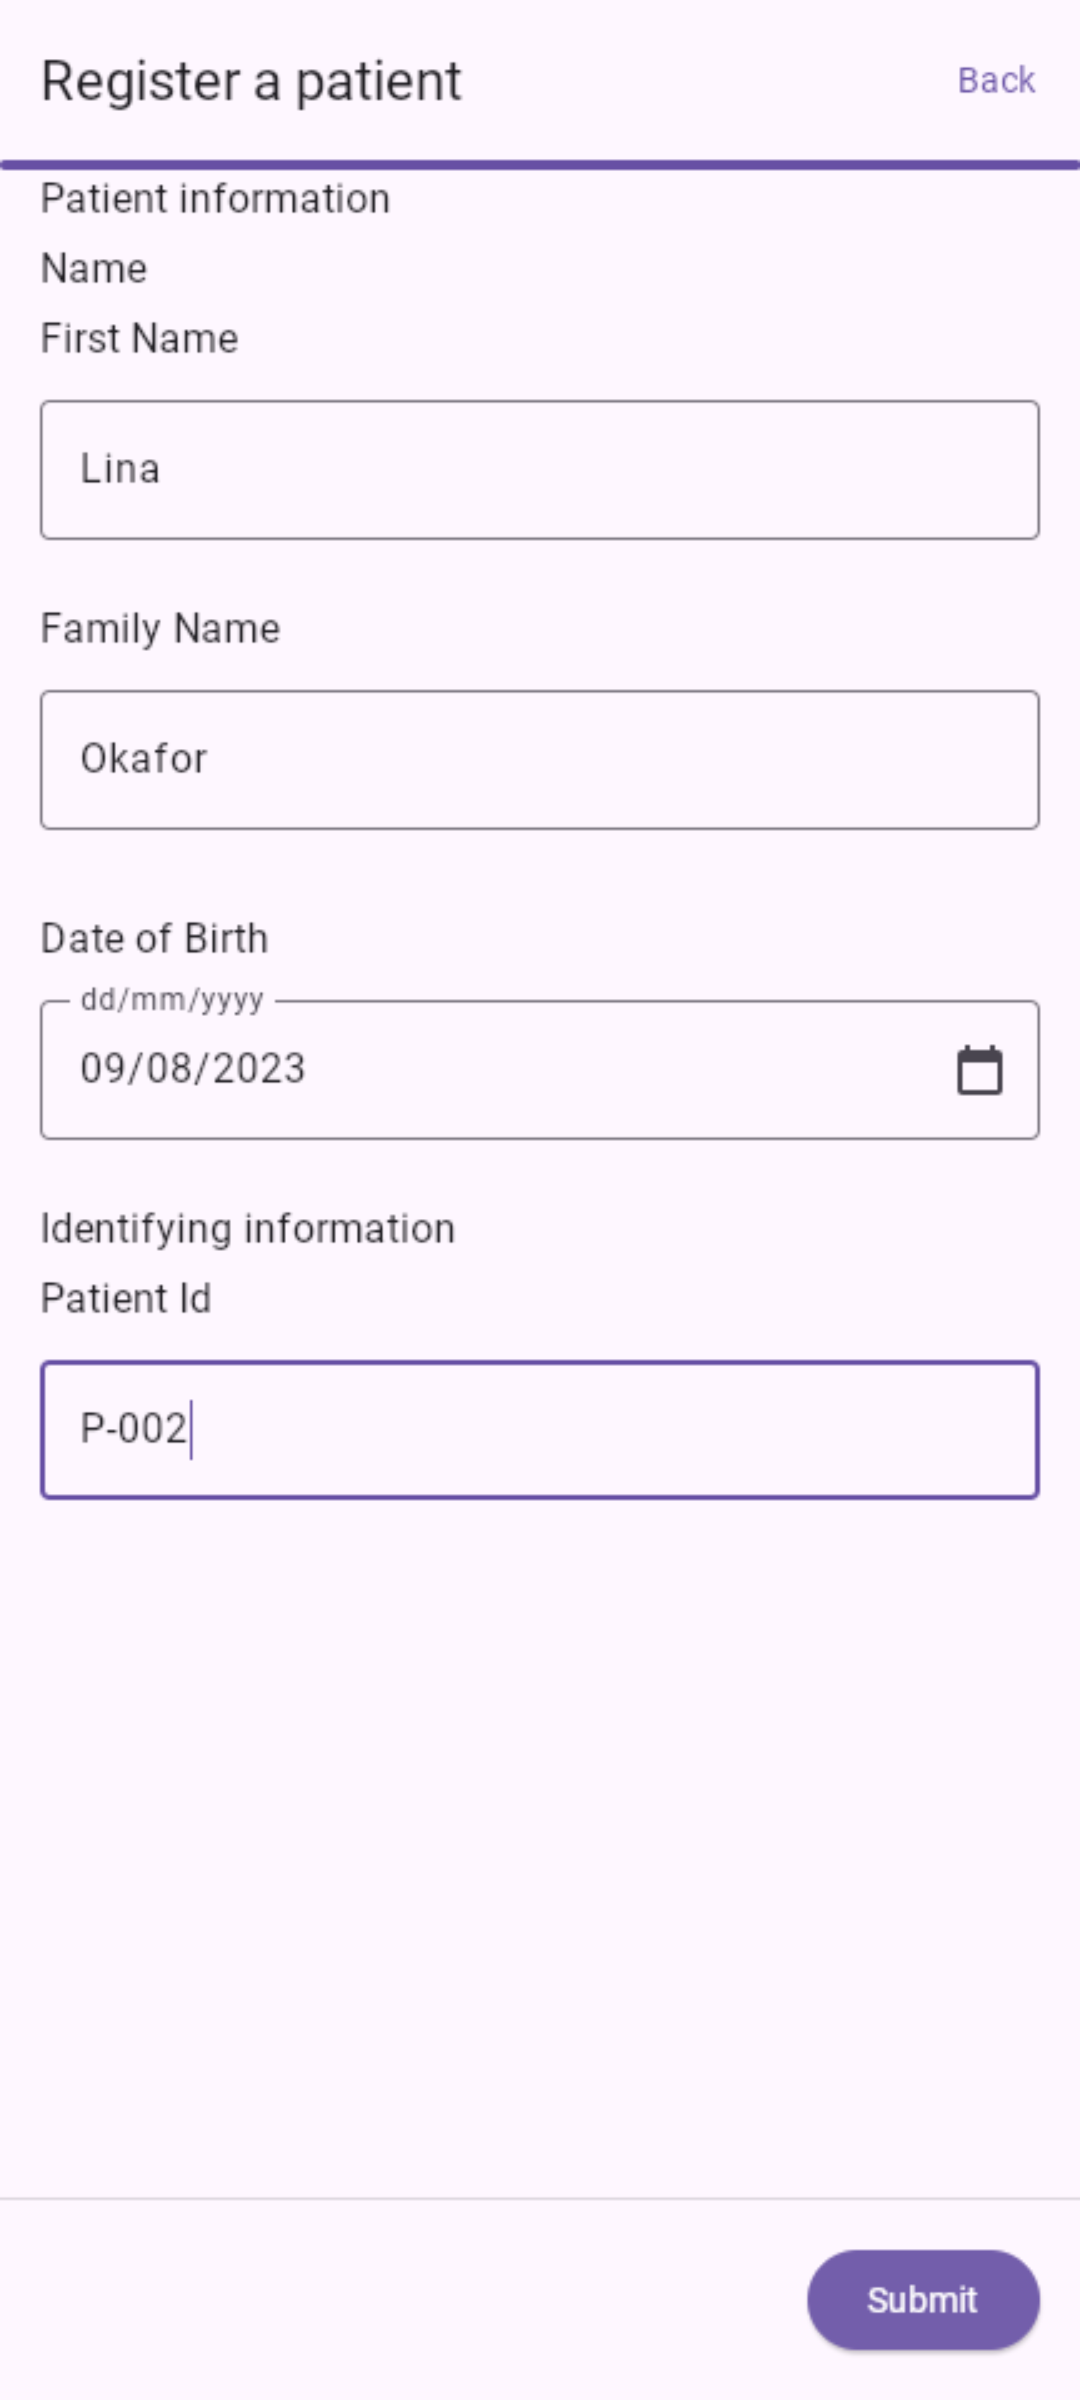
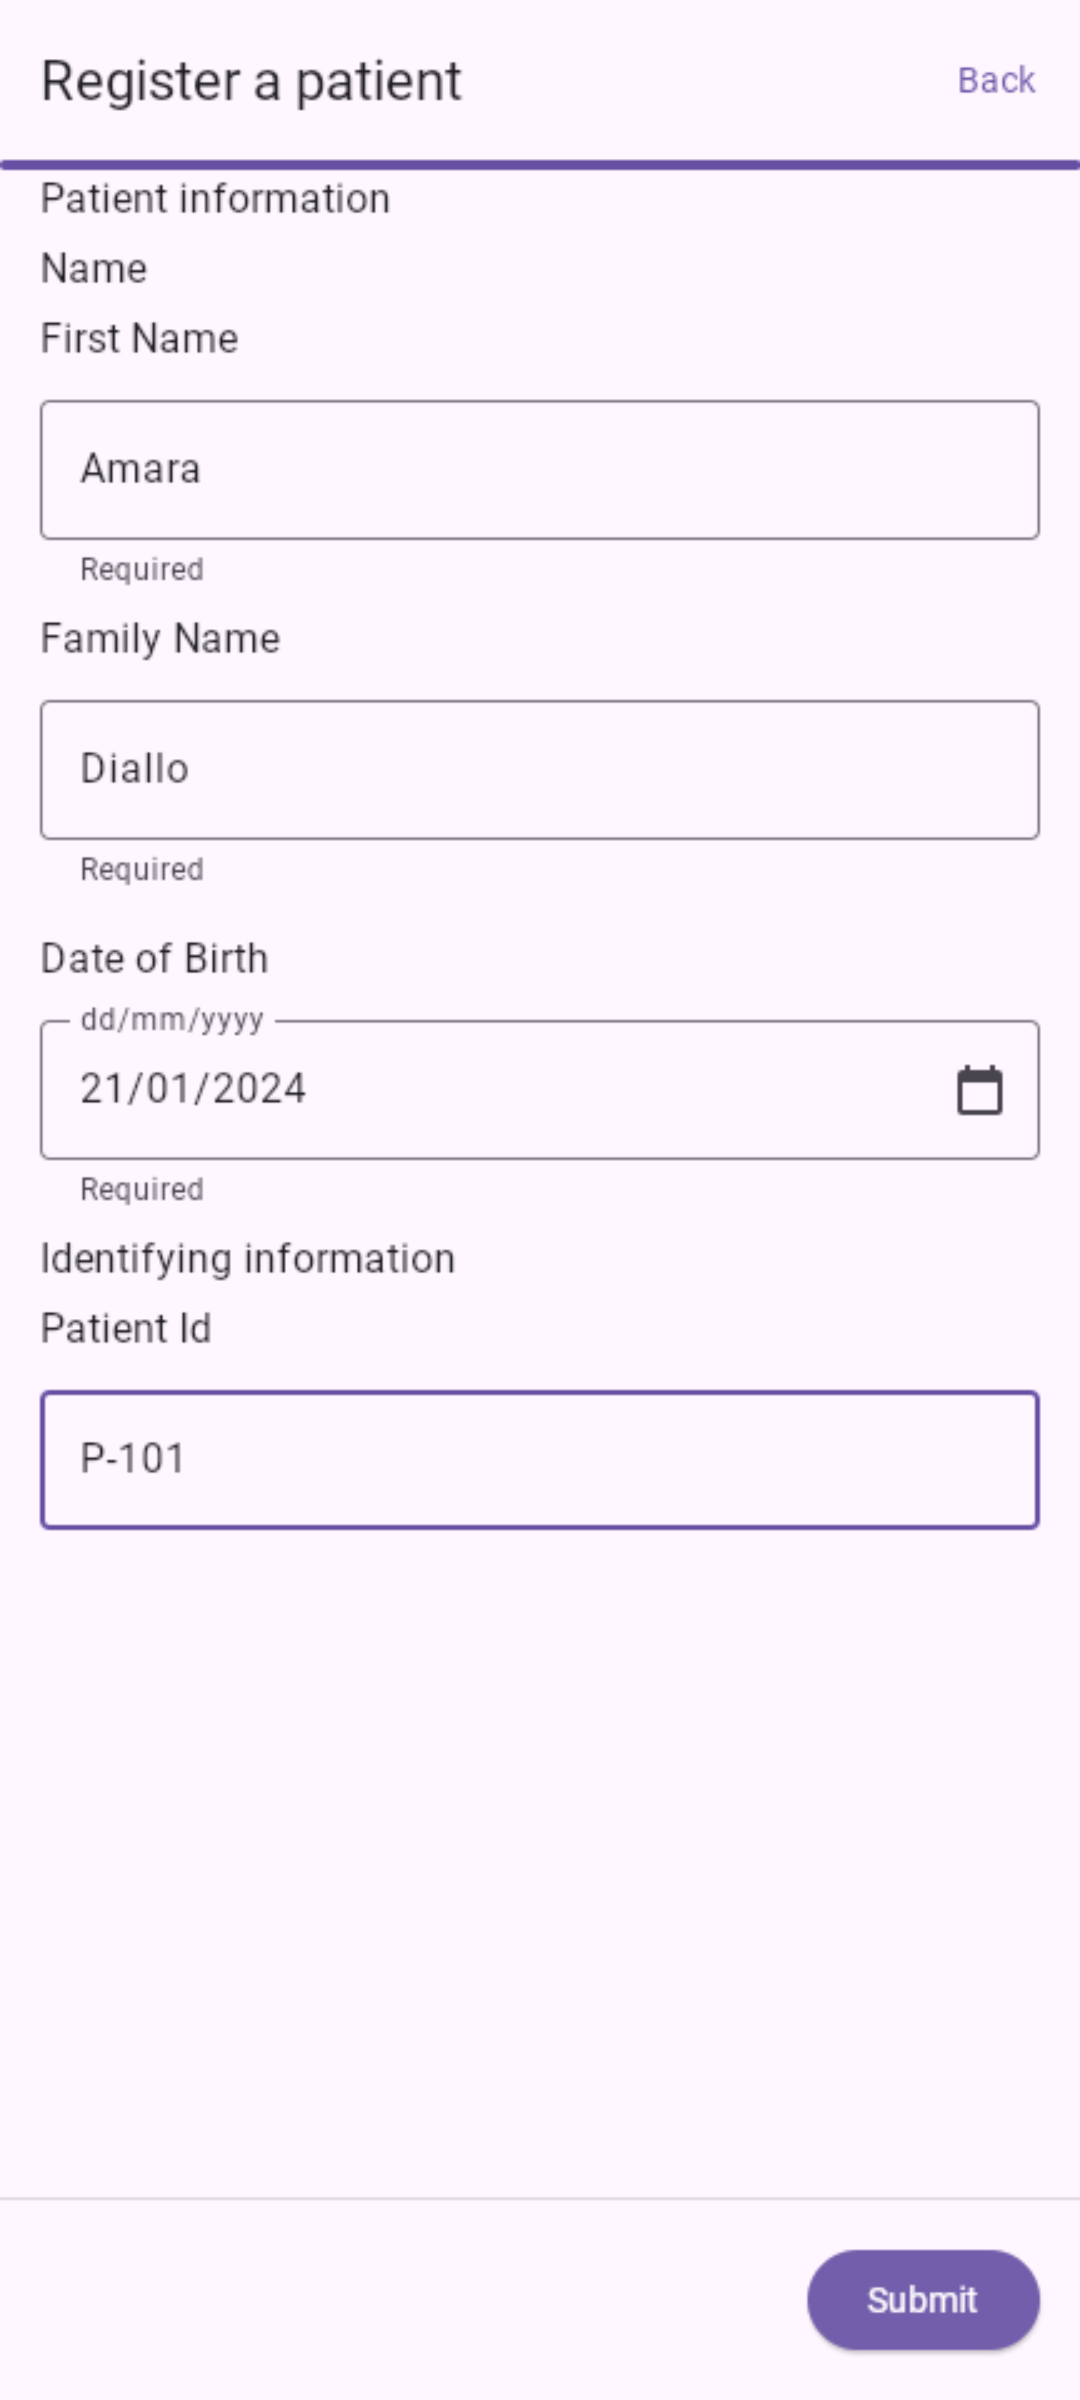
Require name and birth date in the codelab form and show local updates right away

Changed region(s): [[0.0306, 0.1875, 0.9778, 0.6562]]

diff --git a/codelabs/shared/src/commonMain/kotlin/dev/ohs/fhir/codelab/PatientListScreen.kt b/codelabs/shared/src/commonMain/kotlin/dev/ohs/fhir/codelab/PatientListScreen.kt
@@ -128,7 +128,7 @@ private fun PatientItem(patient: Patient, tasks: List<Task>) {
     )
     if (tasks.isNotEmpty()) {
       Text(
-        "Tasks: " + tasks.mapNotNull { it.code?.text?.value }.joinToString(", "),
+        "Tasks: " + tasks.mapNotNull { it.code?.text?.value }.sorted().joinToString(", "),
         style = MaterialTheme.typography.bodyMedium,
         color = MaterialTheme.colorScheme.primary,
       )

diff --git a/codelabs/README.md b/codelabs/README.md
@@ -88,7 +88,9 @@ result with a `total` count of 3.
 The test data is in the `data` folder. The patients are in `data/patients.json`. To reset the server to them, for example to run the
 update step again, run `docker compose down` and then `docker compose up -d`. The app keeps its own
 copy of the patients, so tap **Sync** in the app after a reset, before you tap **Update** again.
-When you're done with the codelab, stop the server with `docker compose down`.
+The server keeps its data in memory, so it starts empty if it restarts, for example after
+`docker compose restart` or a restart of Docker. Run `docker compose up -d` again to load the test
+data. When you're done with the codelab, stop the server with `docker compose down`.
 
 ## 3. Set up the project
 
@@ -187,12 +189,12 @@ step of the codelab. Run the Gradle commands in the `codelabs` folder:
 | Platform      | Command or action                                                                  |
 |:--------------|:-----------------------------------------------------------------------------------|
 | Desktop (JVM) | `./gradlew :shared:run`                                                            |
-| Web (Wasm)    | `./gradlew :shared:wasmJsBrowserDevelopmentRun`, then open `http://localhost:8081` |
+| Web (Wasm)    | `./gradlew :shared:wasmJsBrowserDevelopmentRun`, which opens `http://localhost:8081` |
 | iOS           | Open `iosApp/iosApp.xcodeproj` in Xcode, select a simulator, and click **Run**.    |
 
 The Web dev server doesn't rebuild when you change the code. To see a change, stop it with Ctrl+C
-and run the command again. If port 8081 is already in use on your computer, change the port in
-`shared/webpack.config.d/dev-server-port.js`.
+and run the command again. If another app already uses port 8081 on your computer, the browser may
+show that app instead. Change the port in `shared/webpack.config.d/dev-server-port.js`.
 
 On iOS, Xcode builds the `shared` framework with Gradle. To run on a real device, see
 [`iosApp/README.md`](iosApp/README.md).
@@ -469,12 +471,14 @@ scope.launch {
   patientsFromWakefield.forEach { fhirEngine.update(it.withCity("Taunton")) }
   patientsFromTaunton.forEach { fhirEngine.update(it.withCity("Wakefield")) }
 
+  refreshPatients()
   triggerOneTimeSync()
 }
 ```
 
-After modifying the data locally, the app triggers a one-time sync to upload the changes to the
-FHIR server.
+After modifying the data locally, the app shows the change right away with `refreshPatients()`,
+even without a connection. Then it triggers a one-time sync to upload the changes to the FHIR
+server.
 
 The code you added to `PatientListViewModel` should now look like this:
 
@@ -517,6 +521,7 @@ fun triggerUpdate() {
     patientsFromWakefield.forEach { fhirEngine.update(it.withCity("Taunton")) }
     patientsFromTaunton.forEach { fhirEngine.update(it.withCity("Wakefield")) }
 
+    refreshPatients()
     triggerOneTimeSync()
   }
 }
@@ -591,7 +596,8 @@ Open `RegistrationScreen.kt`. Find the
 questionnaireJson?.let { questionnaireJson ->
   Questionnaire(
     questionnaireJson = questionnaireJson,
-    config = QuestionnaireConfig(showCancelButton = false),
+    config =
+      QuestionnaireConfig(showCancelButton = false, showSubmitAnywayWhenValidationFails = false),
     onSubmit = { getQuestionnaireResponse ->
       scope.launch {
         viewModel.registerPatient(questionnaireJson, getQuestionnaireResponse())
@@ -605,7 +611,9 @@ questionnaireJson?.let { questionnaireJson ->
 
 The `Questionnaire` composable shows the form with a **Submit** button. When you tap **Submit**,
 `getQuestionnaireResponse()` checks the answers and returns them as a FHIR QuestionnaireResponse.
-If an answer isn't valid, the library shows a dialog and the form stays open. Otherwise the app
+The name and date of birth are required. If one is missing or isn't valid, the library lists it
+in a dialog and the form stays open. `showSubmitAnywayWhenValidationFails = false` removes the
+dialog's option to submit anyway. Otherwise the app
 passes the response to `registerPatient()` in the view model and goes back to the patient list.
 
 Run the app and tap **Register**. Fill in the form and tap **Submit**. The app goes back to the
@@ -794,7 +802,8 @@ fhirEngine.create(*tasks.toTypedArray())
 *   `fhirEngine.create()` saves the Tasks in the local database.
 
 Run the app and tap **Sync**, so that the PlanDefinition is on the device. Then register a child
-born less than 5 years ago, and an adult. Each new patient shows its Tasks in the list. The child
+born less than 5 years ago, and an adult. The date field follows the date format of your device or
+browser, such as dd/mm/yyyy or mm/dd/yyyy. Each new patient shows its Tasks in the list. The child
 gets First visit and Child health check, and the adult gets only First visit.
 
 <img src="images/image11.png" alt="Patient list with proposed tasks" width="400">
@@ -834,5 +843,6 @@ FHIR Data Capture and Kotlin FHIR Workflow:
     [Kotlin FHIR Workflow](https://github.com/ohs-foundation/kotlin-fhir-workflow) library
 *   Add periodic sync. See [`engine-app`](https://github.com/ohs-foundation/kotlin-fhir-engine/tree/main/engine-app)
     for an example on every platform.
-*   Explore the Search API. The [conformance](https://github.com/ohs-foundation/kotlin-fhir-engine/blob/main/docs/conformance.md)
-    document lists the supported search parameter types, modifiers and prefixes.
+*   Explore the Search API.
+    [Search the local store](https://ohs-foundation.github.io/ohs-docs/fhir-foundations/kotlin-fhir-engine/persist-and-search/)
+    describes the search parameter types, modifiers and prefixes.
